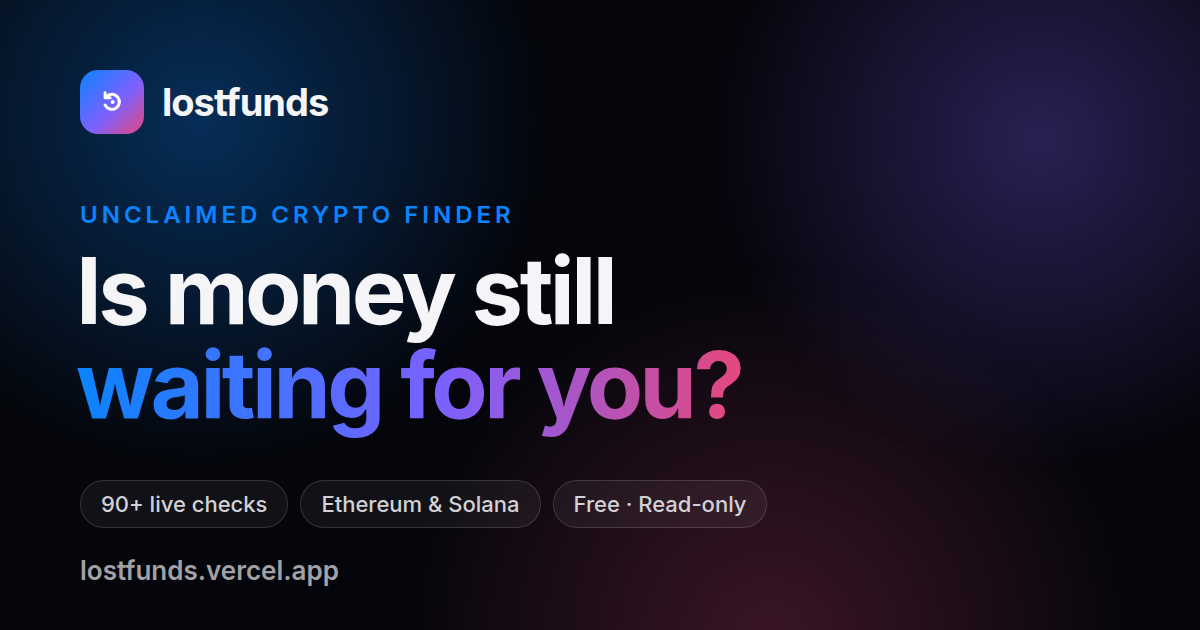
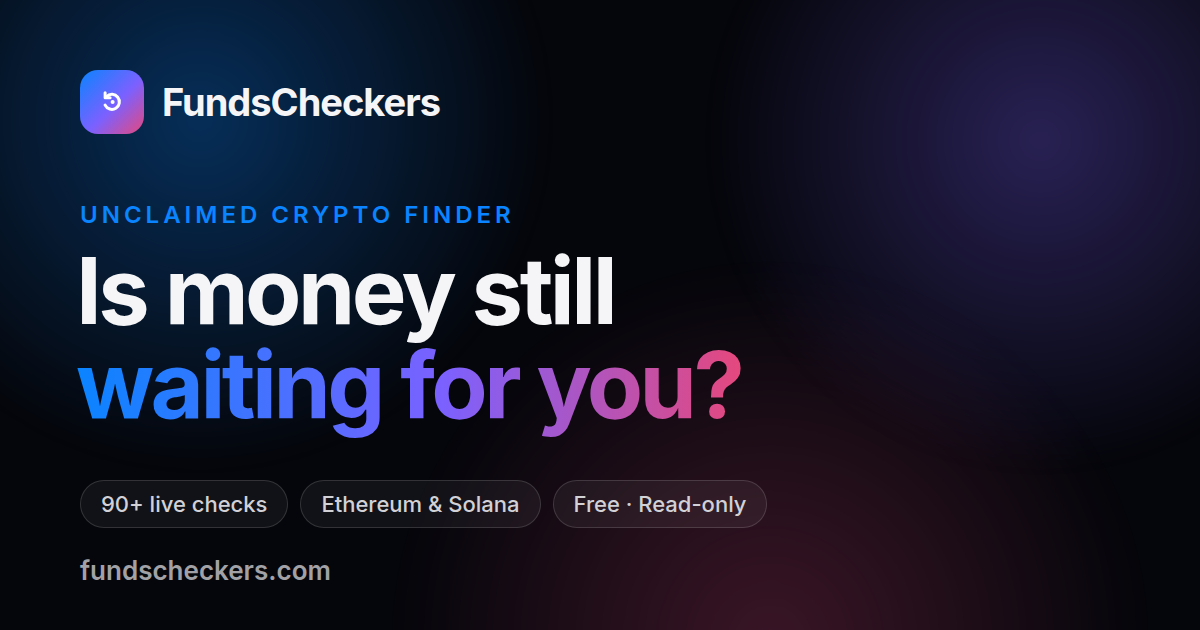
Rename to FundsCheckers (fundscheckers.com); old vercel.app address redirects there
Claude-Session: https://claude.ai/code/session_01YVRww6g9D51ooD7oQhBcv2

Changed region(s): [[0.0617, 0.8746, 0.2775, 0.9349], [0.1233, 0.1206, 0.37, 0.181]]

diff --git a/src/components/ShareResult.tsx b/src/components/ShareResult.tsx
@@ -90,7 +90,7 @@ async function drawCard(d: ShareData, lang: Lang): Promise<Blob | null> {
   g.fillText(lang === "fr" ? "Gratuit · Lecture seule · Sans connexion de wallet" : "Free · Read-only · No wallet connection", 80, 520);
   g.fillStyle = "#f5f5f7";
   g.font = font(600, 36);
-  g.fillText(SITE.url.replace(/^https?:\/\//, ""), 80, 572);
+  g.fillText(SITE.domain, 80, 572);
   return new Promise((r) => c.toBlob((b) => r(b), "image/png"));
 }
 
@@ -104,7 +104,7 @@ export function ShareResult({ data, lang }: { data: ShareData; lang: Lang }) {
     setNote(null);
     try {
       const blob = await drawCard(data, lang);
-      const file = blob && new File([blob], "lostfunds.png", { type: "image/png" });
+      const file = blob && new File([blob], "fundscheckers.png", { type: "image/png" });
       if (file && navigator.canShare?.({ files: [file] })) {
         await navigator.share({ files: [file], text, url });
         return;
@@ -117,7 +117,7 @@ export function ShareResult({ data, lang }: { data: ShareData; lang: Lang }) {
       if (blob) {
         const a = document.createElement("a");
         a.href = URL.createObjectURL(blob);
-        a.download = "lostfunds.png";
+        a.download = "fundscheckers.png";
         a.click();
         setTimeout(() => URL.revokeObjectURL(a.href), 5000);
       }

diff --git a/src/config/site.ts b/src/config/site.ts
@@ -3,10 +3,12 @@
  * Sections tied to an empty value are hidden automatically.
  */
 export const SITE = {
-  name: "lostfunds",
+  name: "FundsCheckers",
   /** Public address of the site, used for link previews and shared results. */
-  url: "https://lostfunds.vercel.app",
-  title: "lostfunds — find the crypto you forgot to claim",
+  url: "https://www.fundscheckers.com",
+  /** The address as people type it, without https:// or www. */
+  domain: "fundscheckers.com",
+  title: "FundsCheckers — find the crypto you forgot to claim",
   description:
     "Unfinished bridge withdrawals, unclaimed airdrops, rewards and old deposits: check any Ethereum or Solana address in seconds. Free, read-only, no wallet connection.",
   /** e.g. "https://x.com/yourhandle" */

diff --git a/src/components/ShowReel.tsx b/src/components/ShowReel.tsx
@@ -1,6 +1,7 @@
 "use client";
 
 import { useEffect, useRef, useState } from "react";
+import { SITE } from "@/config/site";
 import { T } from "@/lib/i18n";
 import { Reveal } from "./Reveal";
 
@@ -68,7 +69,7 @@ export function ShowReel() {
               loop
               playsInline
               preload="metadata"
-              aria-label="lostfunds: a 15-second film showing how the checker finds unclaimed bridge withdrawals"
+              aria-label={`${SITE.name}: a 15-second film showing how the checker finds unclaimed bridge withdrawals`}
             />
             <button
               type="button"

diff --git a/src/app/layout.tsx b/src/app/layout.tsx
@@ -14,7 +14,7 @@ export const metadata: Metadata = {
     type: "website",
     url: SITE.url,
     siteName: SITE.name,
-    images: [{ url: "/og.png", width: 1200, height: 630, alt: "lostfunds — Is money still waiting for you?" }],
+    images: [{ url: "/og.png", width: 1200, height: 630, alt: `${SITE.name} — Is money still waiting for you?` }],
   },
   twitter: { card: "summary_large_image", title: SITE.title, description: SITE.description, images: ["/og.png"] },
 };

diff --git a/README.md b/README.md
@@ -1,4 +1,4 @@
-# lostfunds
+# FundsCheckers
 
 Find the crypto you forgot to claim: unfinished bridge withdrawals, stuck cross-chain transfers,
 unclaimed airdrops, rewards and old deposits. Free, read-only, no wallet connection.
